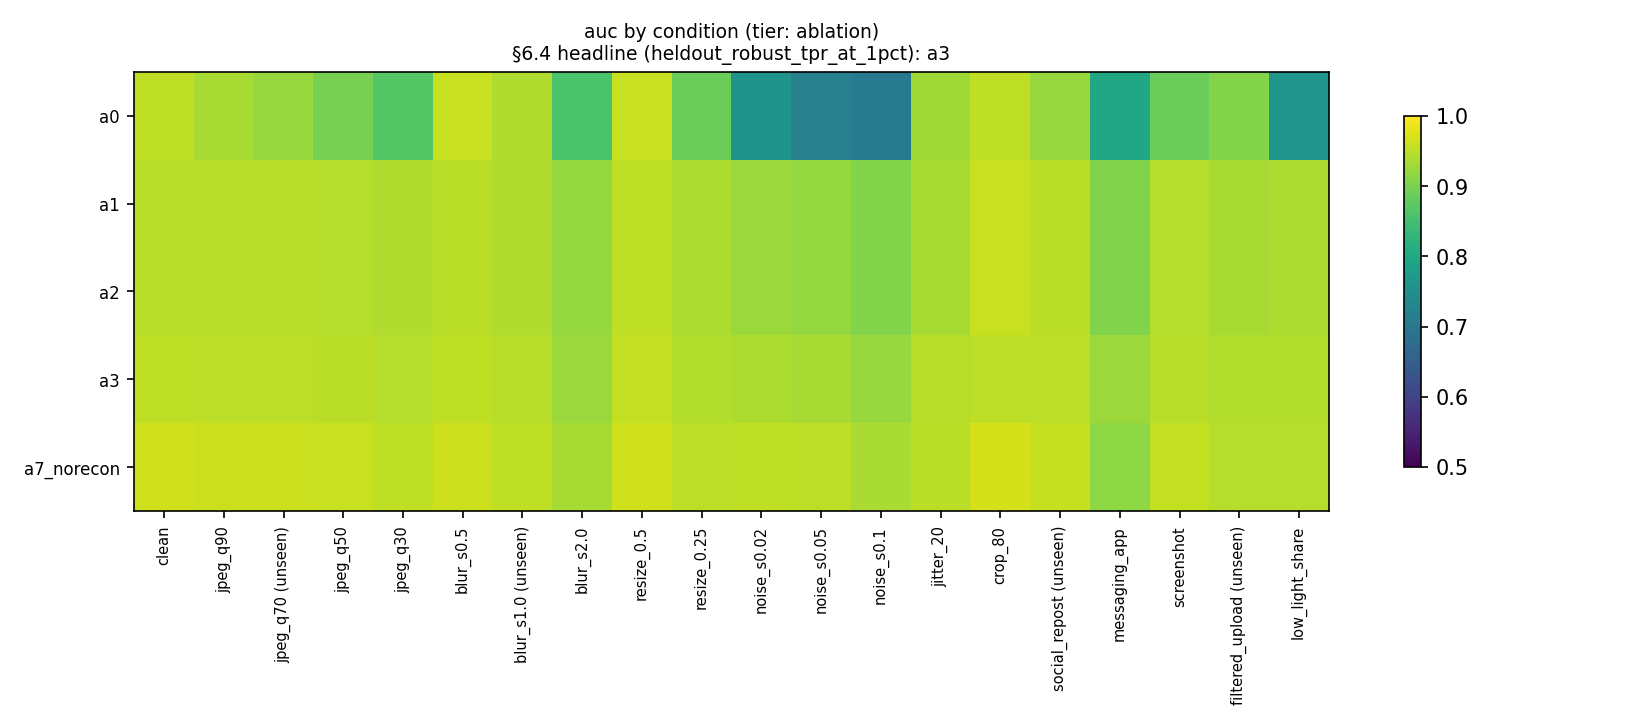
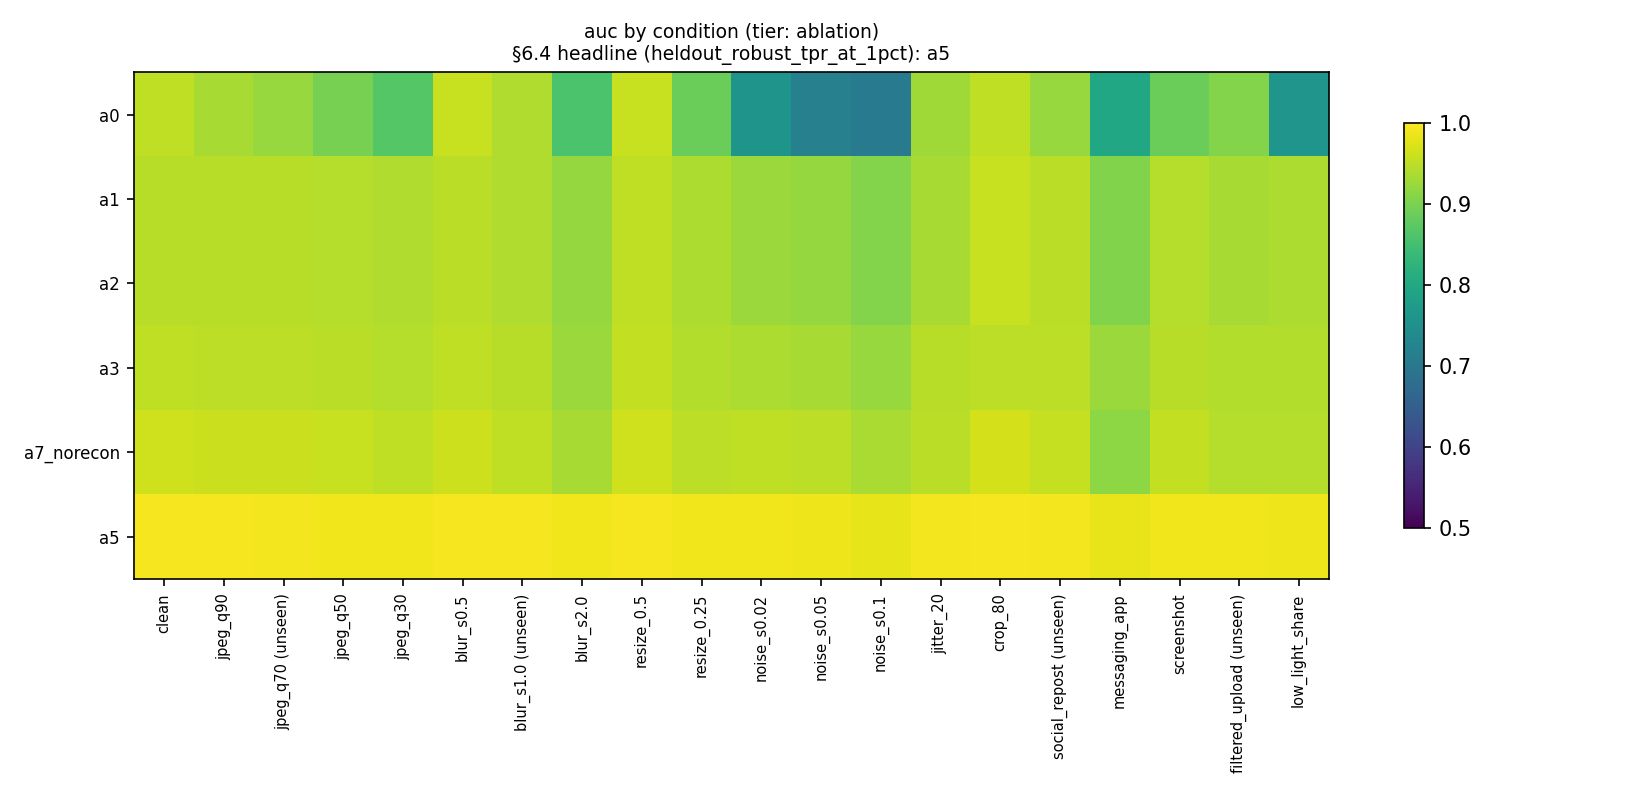
docs(ablation): both fusions, and A7 answered on the backbone we ship
A7 is trainable on both backbones now, so the question the rung exists to ask
finally has an answer -- and it is no, for us:

    backbone    a3        a7_norecon
    dinov3l     0.9012 -> 0.8801     conditioning costs 2 points
    convnextt   0.4882 -> 0.5589     conditioning gains 7

FiLM rescues a weak feature and holds back a strong one. We ship the strong
one, so a3 keeps the headline and a7 stays a control. Before this morning's
renormalisation the rung diverged to constant output (0.0296 at val_auc
0.5601) and could not distinguish "FiLM does not help" from "FiLM did not
train", which is the only reason this is reportable at all.

Both fusion directions return 0.8860 to four decimals. That is not a
coincidence to explain away, it is the symmetry check passing: equal-weight
z-score fusion is commutative, so convnextt+dinov3l and dinov3l+convnextt are
one experiment. Read against the siglip2l pairing's 0.8773, cross-family beats
same-family -- the paradigm-diversity hypothesis has a pulse.

The two ladders disagree on their headline, and both are correct. On dinov3l
§6.4 picks a3 (0.9012 over a5's 0.8860). On convnextt it picks a5, because a5
is an ELIGIBLE rung and 0.8860 genuinely beats that ladder's a3 at 0.4882 --
fusion is worth 40 points to a weak base and costs 1.5 to a strong one. What
fusion transfers is the partner's ability, not a combination of both; equal
weighting has no way to know which model to trust, and finding weights on
[…]

diff --git a/docs/robustness_table_convnextt.md b/docs/robustness_table_convnextt.md
@@ -2,11 +2,11 @@
 
 **Evaluation tier:** ablation
 
-Selection tier: internal validation plus a stratified benchmark subsample, over the full grid. Used for ablations and model selection only. Planned budget for this tier: 5k internal validation plus a 5k stratified benchmark subsample, over the 20-condition grid. THIS TABLE covers 5 rung(s) x 20 condition(s) over 25332 image(s), which is what the numbers below were computed on; the budget above is the plan, not a property of this table.
+Selection tier: internal validation plus a stratified benchmark subsample, over the full grid. Used for ablations and model selection only. Planned budget for this tier: 5k internal validation plus a 5k stratified benchmark subsample, over the 20-condition grid. THIS TABLE covers 6 rung(s) x 20 condition(s) over 25332 image(s), which is what the numbers below were computed on; the budget above is the plan, not a property of this table.
 
 **Bootstrap 95% CIs:** 1000 resamples, seed 20260827.
 
-**§6.4 selection metric:** column `heldout_robust_tpr_at_1pct`, the rule the headline model is chosen by -- the rung among A3/A4/A5/A6 with the highest mean TPR @ 1% FPR over the degraded conditions, computed on val_internal authentic images vs heldout_generator generated images (spec §6.4). Fixed before any result existed; not clean AUC, not val_auc, not the external benchmark. Highest among the eligible rungs in this table: `a3`. The per-condition columns and `robust_auc` are §6.1 REPORTING metrics, computed over every scored row -- internal-validation authentic and generated, held-out-generator and benchmark alike. They are not the model-selection rule and can rank the rungs differently.
+**§6.4 selection metric:** column `heldout_robust_tpr_at_1pct`, the rule the headline model is chosen by -- the rung among A3/A4/A5/A6 with the highest mean TPR @ 1% FPR over the degraded conditions, computed on val_internal authentic images vs heldout_generator generated images (spec §6.4). Fixed before any result existed; not clean AUC, not val_auc, not the external benchmark. Highest among the eligible rungs in this table: `a5`. The per-condition columns and `robust_auc` are §6.1 REPORTING metrics, computed over every scored row -- internal-validation authentic and generated, held-out-generator and benchmark alike. They are not the model-selection rule and can rank the rungs differently.
 
 Conditions marked `(unseen)` use a severity the training sampler never drew (spec §4.6, held-out severity bands): jpeg_q70, blur_s1.0, social_repost, filtered_upload.
 
@@ -17,3 +17,4 @@ Conditions marked `(unseen)` use a severity the training sampler never drew (spe
 | a2 | 0.9467 | 0.9456 | 0.9469 | 0.9436 | 0.9395 | 0.9479 | 0.9408 | 0.9212 | 0.9520 | 0.9384 | 0.9238 | 0.9217 | 0.9075 | 0.9354 | 0.9575 | 0.9475 | 0.9055 | 0.9443 | 0.9340 | 0.9380 | 0.9364 | 0.9423 | 0.9348 | 0.4967 | ablation | 25332 | 20260827 | 1000 | True | 0.0100 |
 | a3 | 0.9519 | 0.9502 | 0.9500 | 0.9479 | 0.9444 | 0.9520 | 0.9464 | 0.9244 | 0.9537 | 0.9425 | 0.9387 | 0.9352 | 0.9233 | 0.9462 | 0.9510 | 0.9505 | 0.9241 | 0.9457 | 0.9429 | 0.9421 | 0.9427 | 0.9474 | 0.9414 | 0.4882 | ablation | 25332 | 20260827 | 1000 | True | 0.0100 |
 | a7_norecon | 0.9629 | 0.9609 | 0.9600 | 0.9577 | 0.9523 | 0.9611 | 0.9512 | 0.9342 | 0.9638 | 0.9501 | 0.9527 | 0.9504 | 0.9368 | 0.9475 | 0.9681 | 0.9570 | 0.9144 | 0.9534 | 0.9441 | 0.9445 | 0.9505 | 0.9531 | 0.9499 | 0.5589 | ablation | 25332 | 20260827 | 1000 | True | 0.0100 |
+| a5 | 0.9931 | 0.9934 | 0.9914 | 0.9900 | 0.9883 | 0.9932 | 0.9925 | 0.9893 | 0.9930 | 0.9893 | 0.9899 | 0.9868 | 0.9808 | 0.9915 | 0.9931 | 0.9915 | 0.9840 | 0.9898 | 0.9899 | 0.9877 | 0.9898 | 0.9913 | 0.9894 | 0.8860 | ablation | 25332 | 20260827 | 1000 | True | 0.0100 |

diff --git a/docs/robustness_table_a5_cnn.md b/docs/robustness_table_a5_cnn.md
@@ -1,0 +1,20 @@
+# Robustness table
+
+**Evaluation tier:** ablation
+
+Selection tier: internal validation plus a stratified benchmark subsample, over the full grid. Used for ablations and model selection only. Planned budget for this tier: 5k internal validation plus a 5k stratified benchmark subsample, over the 20-condition grid. THIS TABLE covers 6 rung(s) x 20 condition(s) over 25332 image(s), which is what the numbers below were computed on; the budget above is the plan, not a property of this table.
+
+**Bootstrap 95% CIs:** 1000 resamples, seed 20260827.
+
+**§6.4 selection metric:** column `heldout_robust_tpr_at_1pct`, the rule the headline model is chosen by -- the rung among A3/A4/A5/A6 with the highest mean TPR @ 1% FPR over the degraded conditions, computed on val_internal authentic images vs heldout_generator generated images (spec §6.4). Fixed before any result existed; not clean AUC, not val_auc, not the external benchmark. Highest among the eligible rungs in this table: `a3`. The per-condition columns and `robust_auc` are §6.1 REPORTING metrics, computed over every scored row -- internal-validation authentic and generated, held-out-generator and benchmark alike. They are not the model-selection rule and can rank the rungs differently.
+
+Conditions marked `(unseen)` use a severity the training sampler never drew (spec §4.6, held-out severity bands): jpeg_q70, blur_s1.0, social_repost, filtered_upload.
+
+| rung | clean | jpeg_q90 | jpeg_q70 (unseen) | jpeg_q50 | jpeg_q30 | blur_s0.5 | blur_s1.0 (unseen) | blur_s2.0 | resize_0.5 | resize_0.25 | noise_s0.02 | noise_s0.05 | noise_s0.1 | jitter_20 | crop_80 | social_repost (unseen) | messaging_app | screenshot | filtered_upload (unseen) | low_light_share | robust_auc | heldout_auc | seen_auc | heldout_robust_tpr_at_1pct | tier | n_images | boot_seed | boot_n | banks_verified | target_fpr |
+| --- | --- | --- | --- | --- | --- | --- | --- | --- | --- | --- | --- | --- | --- | --- | --- | --- | --- | --- | --- | --- | --- | --- | --- | --- | --- | --- | --- | --- | --- | --- |
+| a0 | 0.9935 | 0.9948 | 0.9901 | 0.9860 | 0.9794 | 0.9938 | 0.9941 | 0.9943 | 0.9926 | 0.9876 | 0.9858 | 0.9729 | 0.9553 | 0.9907 | 0.9925 | 0.9899 | 0.9747 | 0.9828 | 0.9891 | 0.9752 | 0.9854 | 0.9908 | 0.9839 | 0.8611 | ablation | 25332 | 20260827 | 1000 | True | 0.0100 |
+| a1 | 0.9931 | 0.9943 | 0.9915 | 0.9900 | 0.9877 | 0.9934 | 0.9937 | 0.9930 | 0.9924 | 0.9881 | 0.9904 | 0.9870 | 0.9811 | 0.9915 | 0.9913 | 0.9915 | 0.9857 | 0.9877 | 0.9907 | 0.9875 | 0.9899 | 0.9919 | 0.9894 | 0.9037 | ablation | 25332 | 20260827 | 1000 | True | 0.0100 |
+| a2 | 0.9931 | 0.9943 | 0.9915 | 0.9900 | 0.9877 | 0.9934 | 0.9937 | 0.9930 | 0.9924 | 0.9881 | 0.9904 | 0.9870 | 0.9811 | 0.9915 | 0.9913 | 0.9915 | 0.9857 | 0.9877 | 0.9907 | 0.9875 | 0.9899 | 0.9919 | 0.9894 | 0.9037 | ablation | 25332 | 20260827 | 1000 | True | 0.0100 |
+| a3 | 0.9950 | 0.9954 | 0.9934 | 0.9919 | 0.9899 | 0.9950 | 0.9950 | 0.9939 | 0.9947 | 0.9919 | 0.9931 | 0.9898 | 0.9837 | 0.9936 | 0.9936 | 0.9933 | 0.9882 | 0.9905 | 0.9924 | 0.9891 | 0.9920 | 0.9935 | 0.9916 | 0.9012 | ablation | 25332 | 20260827 | 1000 | True | 0.0100 |
+| a7_norecon | 0.9949 | 0.9954 | 0.9925 | 0.9905 | 0.9876 | 0.9949 | 0.9947 | 0.9928 | 0.9945 | 0.9909 | 0.9920 | 0.9886 | 0.9808 | 0.9933 | 0.9925 | 0.9923 | 0.9842 | 0.9874 | 0.9916 | 0.9867 | 0.9907 | 0.9928 | 0.9902 | 0.8801 | ablation | 25332 | 20260827 | 1000 | True | 0.0100 |
+| a5 | 0.9931 | 0.9934 | 0.9914 | 0.9900 | 0.9883 | 0.9932 | 0.9925 | 0.9893 | 0.9930 | 0.9893 | 0.9899 | 0.9868 | 0.9808 | 0.9915 | 0.9931 | 0.9915 | 0.9840 | 0.9898 | 0.9899 | 0.9877 | 0.9898 | 0.9913 | 0.9894 | 0.8860 | ablation | 25332 | 20260827 | 1000 | True | 0.0100 |
